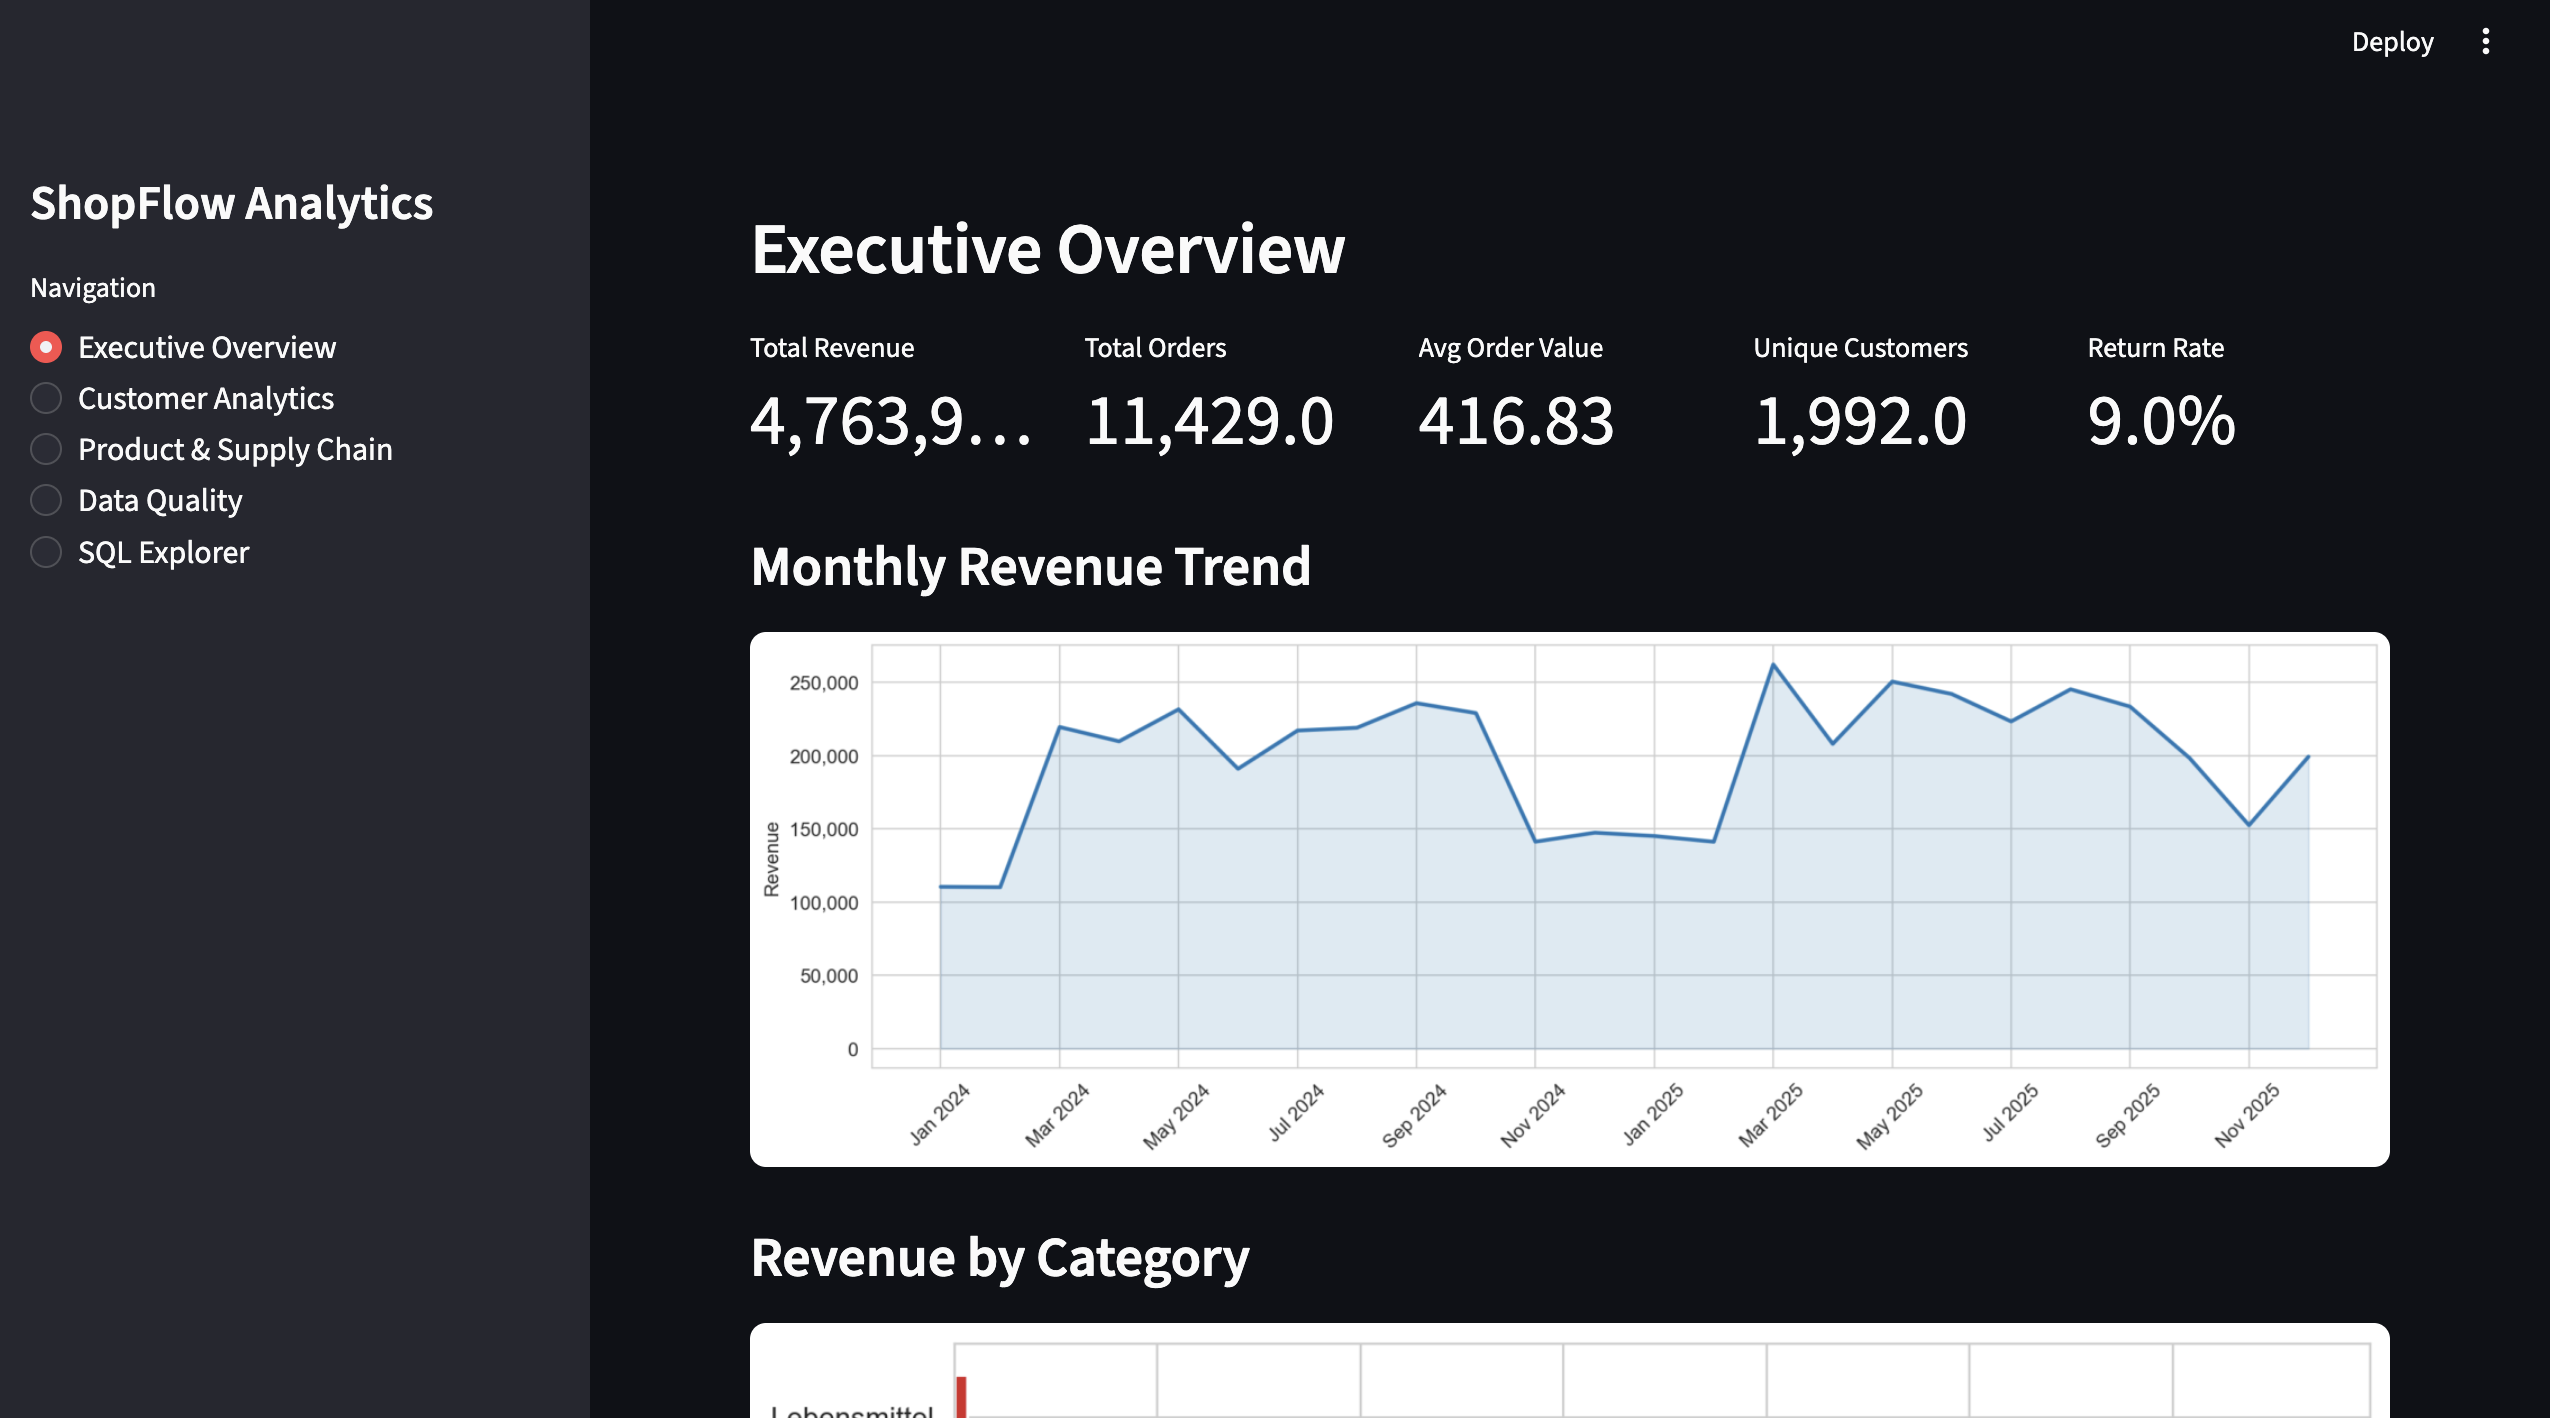
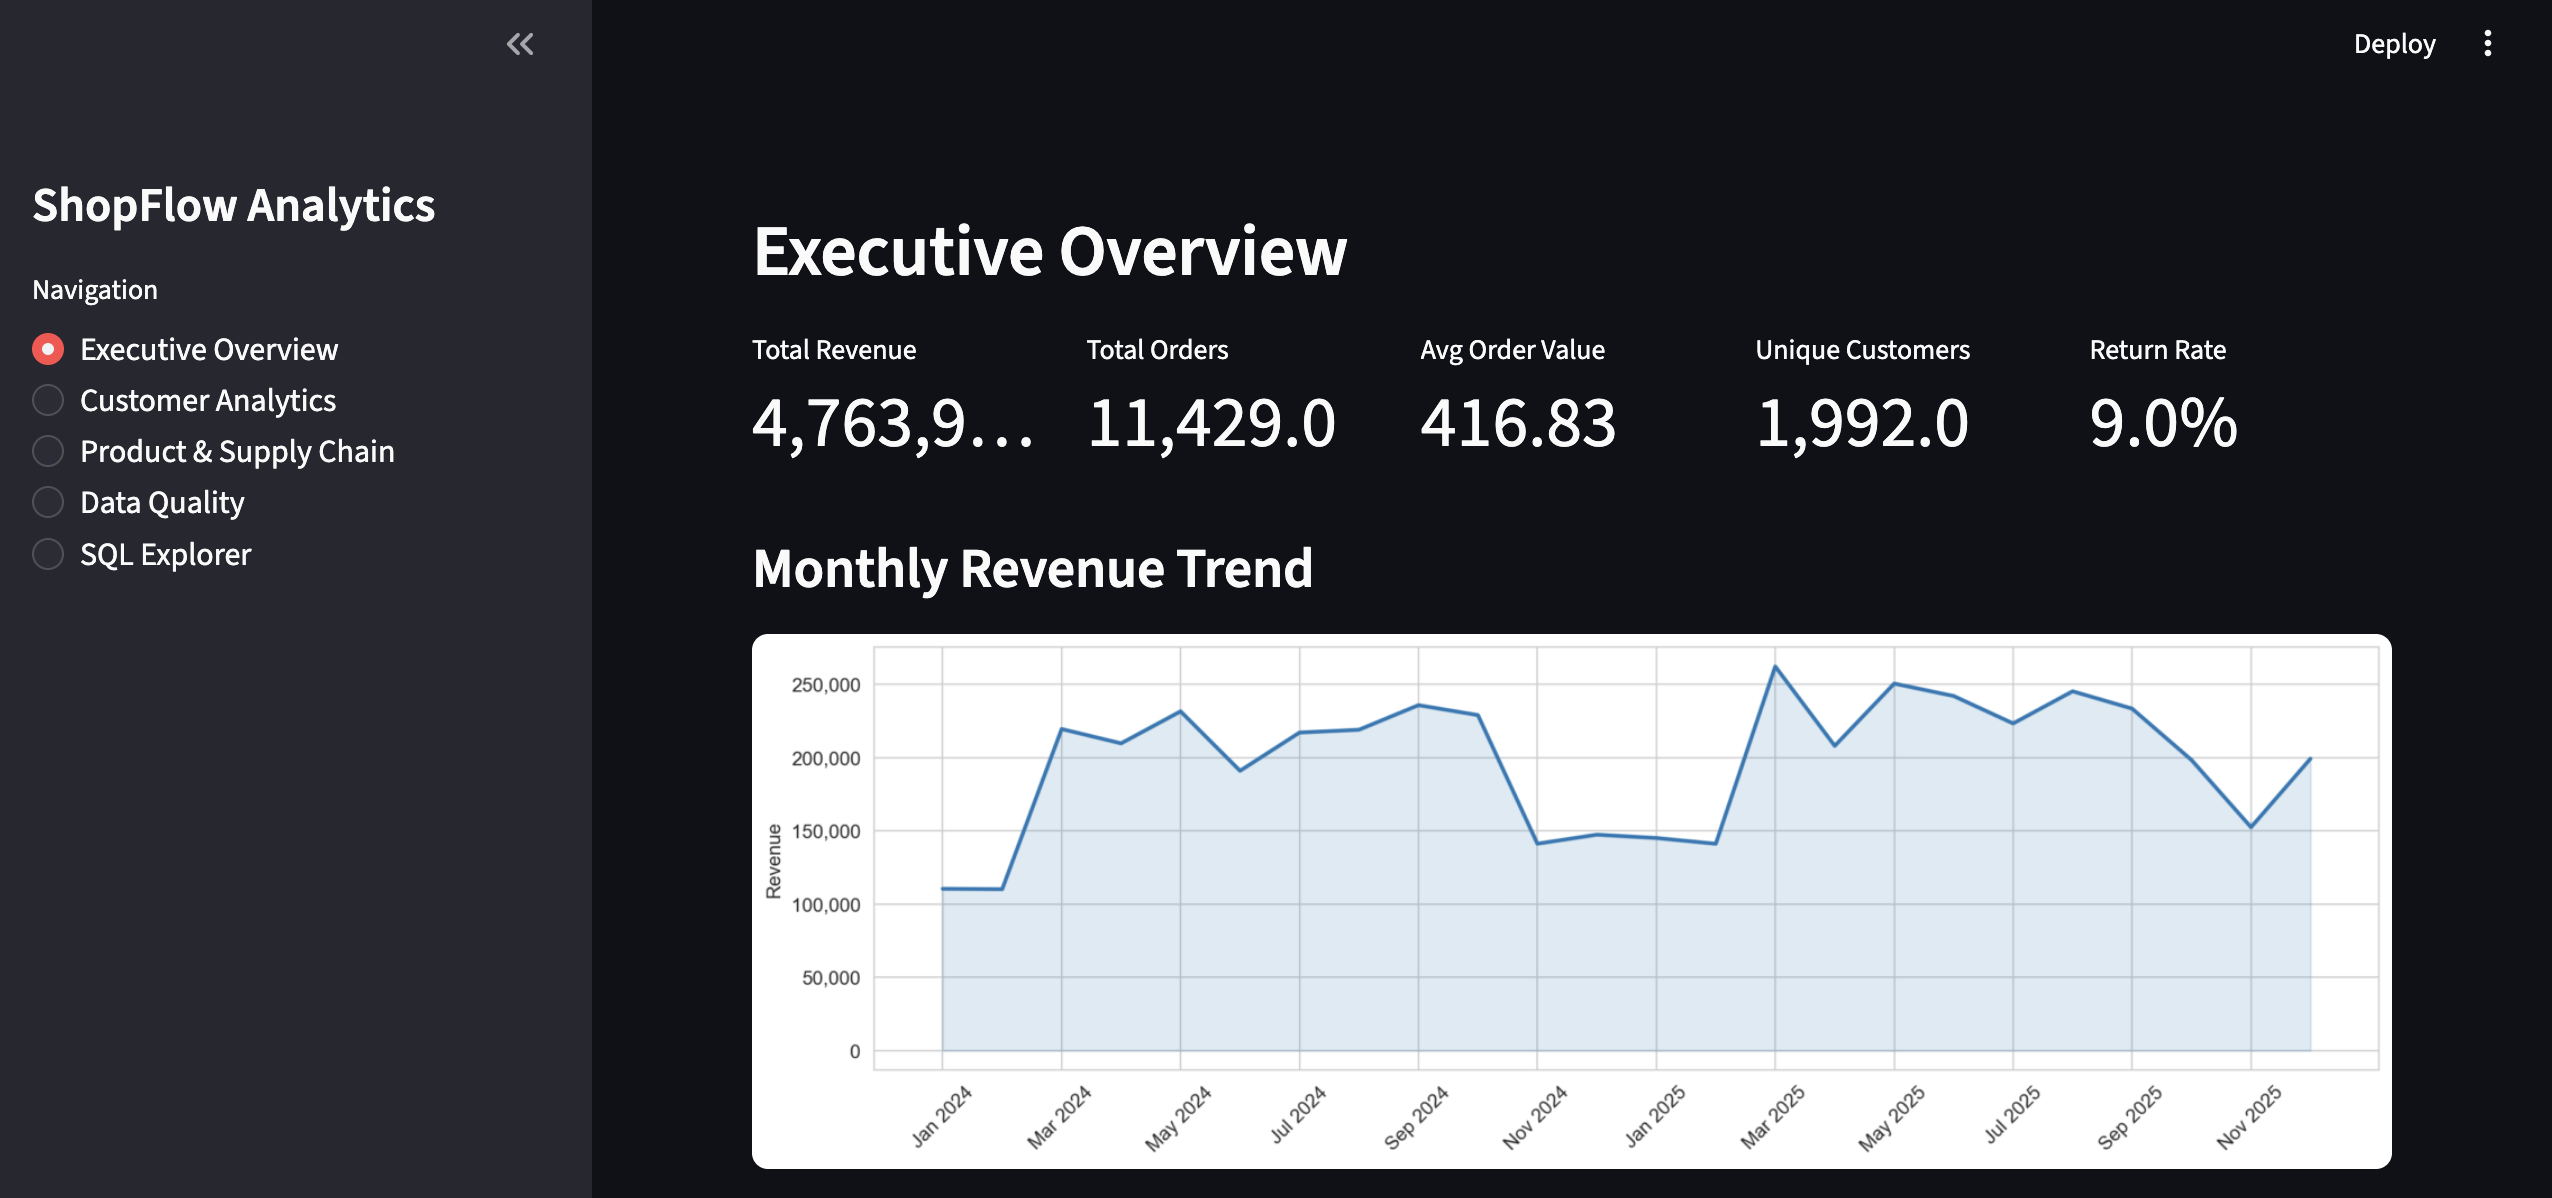
Replace screenshots with cleanly-framed versions

diff --git a/README.md b/README.md
@@ -11,11 +11,14 @@ Multi-agent ETL pipeline that transforms raw e-commerce data into a star schema 
 **Executive Overview** — KPI cards and monthly revenue trend
 ![Overview](docs/screenshots/01-overview.png)
 
+**Revenue by Category** — cross-category performance breakdown
+![Revenue by Category](docs/screenshots/02-revenue-category.png)
+
 **Customer Analytics** — RFM segmentation and cohort retention heatmap
-![Customer Analytics](docs/screenshots/02-customer-analytics.png)
+![Customer Analytics](docs/screenshots/03-customer-analytics.png)
 
 **SQL Explorer** — run pre-built or custom SQL queries against the warehouse
-![SQL Explorer](docs/screenshots/03-sql-explorer.png)
+![SQL Explorer](docs/screenshots/04-sql-explorer.png)
 
 ## Architecture
 